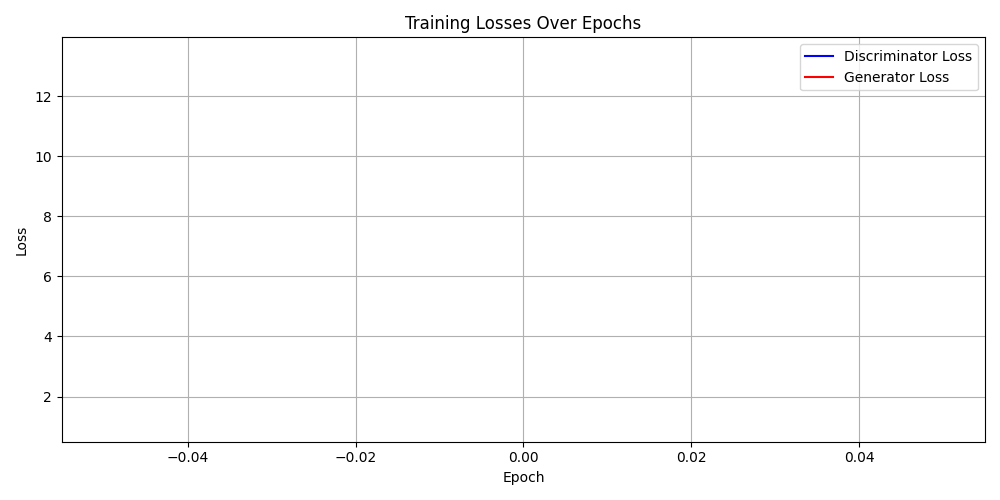
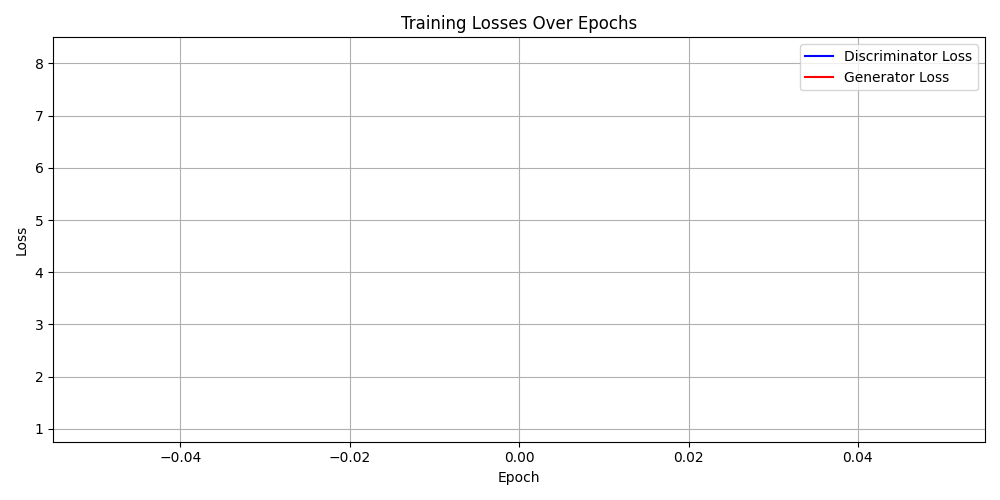
Changes to code file to get losses during epochs

diff --git a/FinalProject/MODEL_V2.py b/FinalProject/MODEL_V2.py
@@ -375,7 +375,7 @@ class LossHistoryPlotter(tf.keras.callbacks.Callback):
         plt.tight_layout()
         plt.savefig('losses_over_epochs.png')
         plt.close()
-        print("Plotted", epoch, "losses: ", d_loss, ", ",g_loss)
+        print("Plotted epoch", epoch, "losses: ", d_loss, ", ",g_loss)
 
 # CHange this to True to retrain the model weights, and False to just get predictions!
 retrain = True
@@ -413,10 +413,27 @@ else:
 
     # Check if loss histories are available
     if not best_model.d_loss_history or not best_model.g_loss_history:
-        print("Warning: Loss histories are empty.")
+        print("!!!!  Warning: Loss histories are empty. !!!!")
 
     if not best_model.d_loss_tracker.variables:
-        print("Warning: Loss tracker variables are empty.")
+        print("!!!! Warning: Loss tracker variables are empty. !!!!")
+
+       # Plotting loss history from the best model
+    if hasattr(best_model, 'd_loss_history') and hasattr(best_model, 'g_loss_history'):
+        d_loss_history = best_model.d_loss_history
+        g_loss_history = best_model.g_loss_history
+
+        plt.figure(figsize=(10, 5))
+        plt.plot(d_loss_history, label='Discriminator Loss', color='blue')
+        plt.plot(g_loss_history, label='Generator Loss', color='red')
+        plt.title('Training Losses Over Epochs')
+        plt.xlabel('Epoch')
+        plt.ylabel('Loss')
+        plt.legend()
+        plt.grid(True)
+        plt.tight_layout()
+        plt.savefig('losses_over_epochs_best_model.png')
+        plt.close()
 
     word_list = ['tired', 'still']
     for word in word_list:
